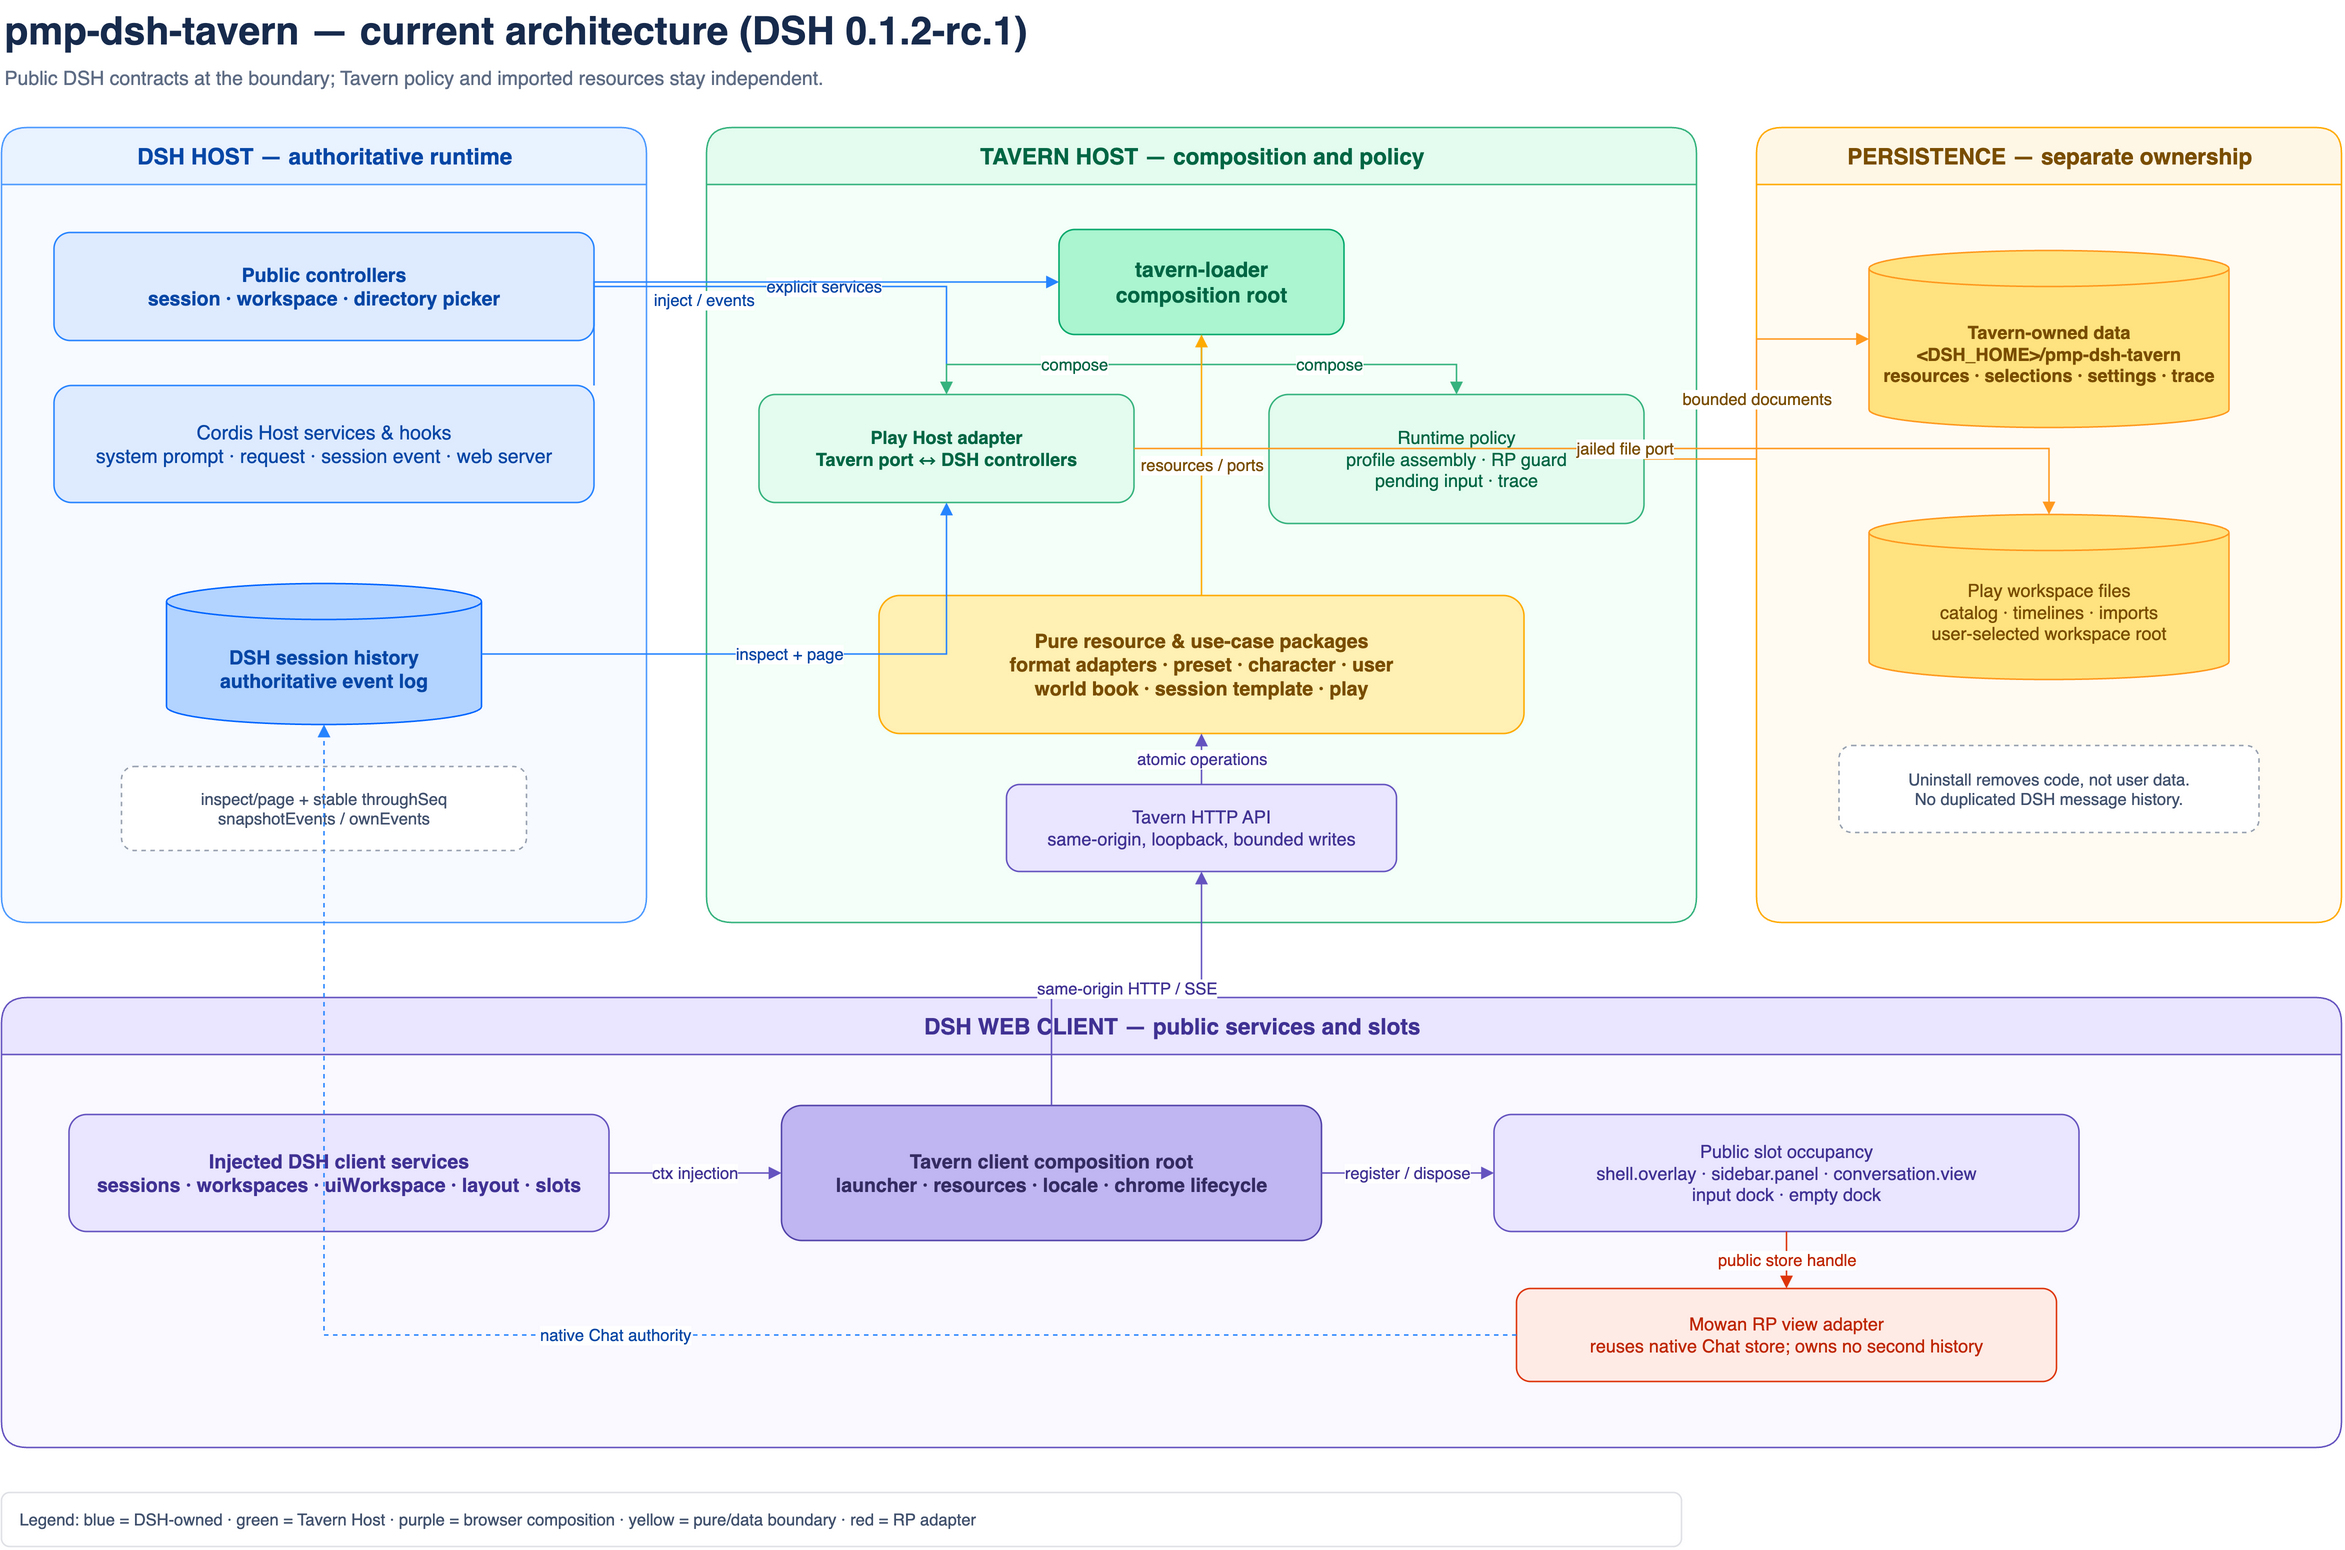
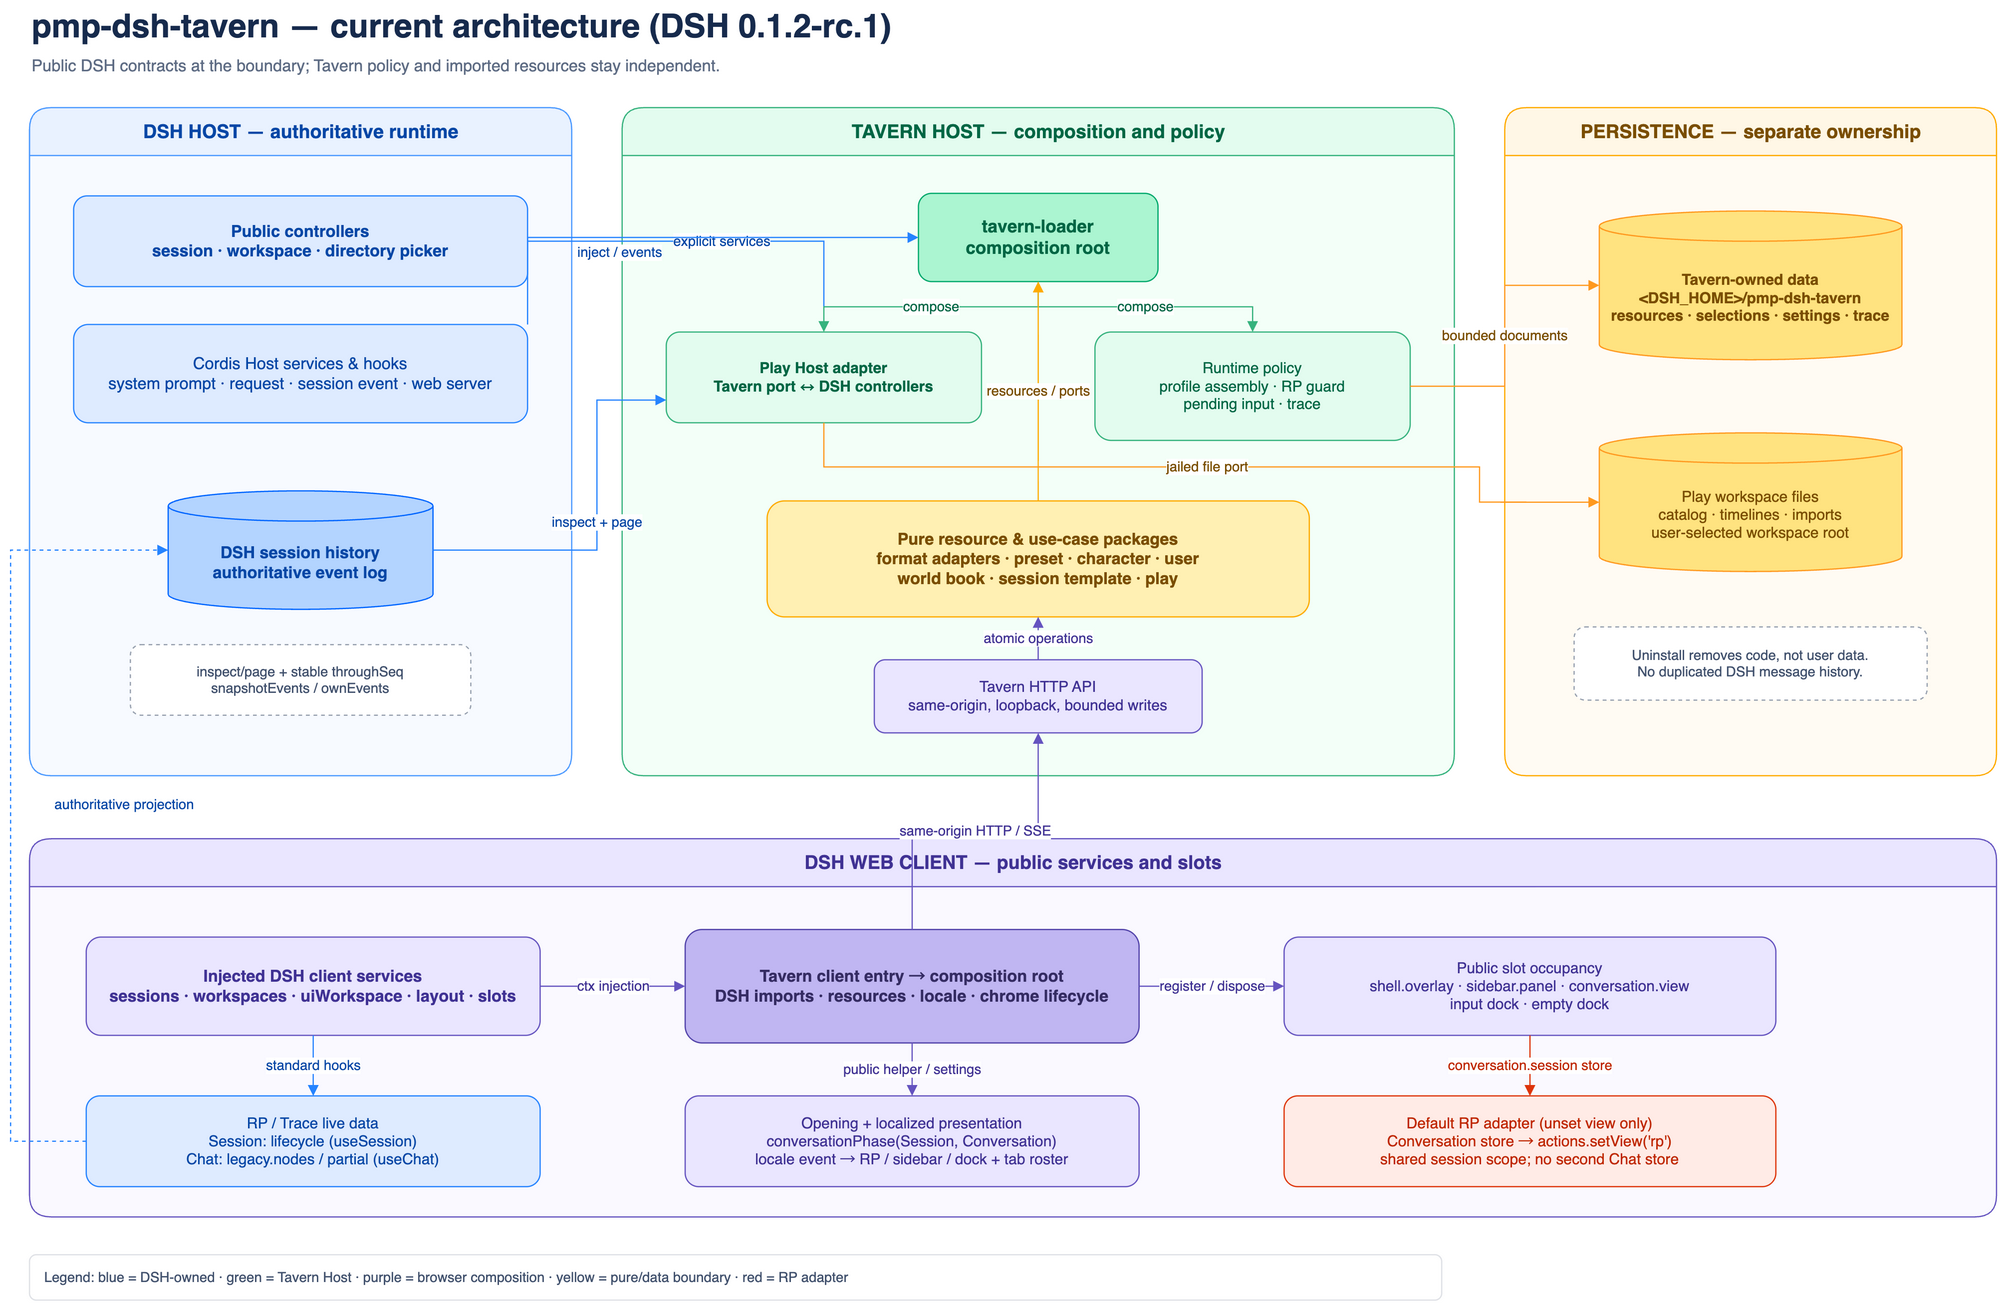
docs: synchronize split client ownership and architecture diagram

diff --git a/docs/ARCHITECTURE_en.md b/docs/ARCHITECTURE_en.md
@@ -2,7 +2,7 @@
 
 [中文](ARCHITECTURE.md)
 
-Status: 2026-09-05. The full DSH compatibility baseline is `0.1.2-rc.1`; install identity is `pmp-dsh-tavern`. HTTP mounts at `/pmp-dsh-tavern/api`; resources use `/v1`; the play-surface contract uses `/v2`. This page is current architecture decisions and release-review gates, not a product README.
+Status: 2026-09-06. The full DSH compatibility baseline is `0.1.2-rc.1`; install identity is `pmp-dsh-tavern`. HTTP mounts at `/pmp-dsh-tavern/api`; resources use `/v1`; the play-surface contract uses `/v2`. This page is current architecture decisions and release-review gates, not a product README.
 
 ![Current architecture](assets/dsh-tavern-architecture.png)
 
@@ -107,9 +107,10 @@ The frontend long-term rule is “minimal change, maximum compatibility”: firs
 | Mowan sidebar | `sidebar.workspaces` slot; owner-injected `useSessions` / `useWorkspaces`; `ctx.sessions.open()` | Reproject as character/playthrough only. Do not rewrite, archive, or hide Host session data |
 | DSH outer New session | Owned by the DSH `0.1.2-rc.1` sidebar shell; no public slot/service for Tavern to take over its click | Tavern does not take it over with hashed classes, DOM capture, or source replacement. Mowan keeps the native button and documents it as not recommended. Ordinary-area `+` only guides back to native |
 | Ordinary-session hint | Independent full-row `conversation.input.dock` slot, inherited `--dsh-composer-card-max-width` | Shows only Tavern's RP-workspace classification. The hint is centered to Host composer width. It does not take over the native composer, copy fixed pixels, or read hashed classes |
-| Mowan conversation page | `conversation.view` slot; standard `useSession` nodes / partial / running | Cross-session playthrough aggregation is a Tavern projection. Do not forge DSH messages or read private runtime |
-| Mowan default view | Native `chat` store handle from `slots.entries("conversation.view")`, session-scoped `conversation.input.dock` and its `actions.setView()` | Before a new playthrough has a chosen view, reuse the same store from a dock entry with no visible content, then unregister immediately after switching to `rp`. Do not register a second `chat` on the view ring. Keep manually selectable native **Chat** |
-| Live send and streaming | DSH `useSession` live nodes and partial | `/v2/messages` only reconciles durable message range. It does not re-wrap DSH's browser live API |
+| Mowan conversation page | `conversation.view`; `useChat` with `legacy.nodes/partial`; `useSession` lifecycle fields | Cross-session aggregation is a Tavern projection. Do not forge DSH messages or read private runtime |
+| Mowan default view | Conversation store handle from `slots.entries("conversation.session")`, session-scoped `conversation.input.dock` and `actions.setView()` | Reuse the same store for an unset view, then unregister. Do not register a second `chat` or override explicit choices |
+| Live send and streaming | The public `legacy` message projection from DSH `useChat` | `/v2/messages` only reconciles durable ranges. Session no longer has `nodes/partial`; top-level Chat `nodes` is not an array |
+| Blank-playthrough opening | Public `conversationPhase(session, conversation)` and `useConversation` | Do not read removed Session `composerPhase` or duplicate the phase state machine |
 | Conversation scroll | Conversation `[data-conversation-scroll]` scrollport, sticky composer geometry, injected `chatScroll.save(null)` | Choose only when to call native “scroll to bottom”. Do not compute a fixed composer height or keep a second scroll container |
 | Clean new session / templates | DSH mode reuses `uiWorkspace.connectWorkspace()`; Mowan reuses the playthrough v2 session-controller composition; both navigate with `sessions.open()` | Tavern only copies selection atomically onto the target session. Mowan additionally treats the configured character as playthrough ownership and read-back-validates. It does not construct messages or fork history |
 | Playthrough session operations | Host `sessions.create/rename/fork/prompt/history`, `workspace.insertSessionBefore`; Host-side `Session.deriveMessages()` | v2 composes these atomic operations into playthrough transactions usable by third-party frontends, while DSH sessions remain authoritative history |
@@ -156,7 +157,9 @@ Plugin-owned resource changes continue to use a bounded Tavern refresh event. Se
 
 On every DSH version upgrade, first do a read-only diff audit: plugin-manifest inject, public package root exports, slot owner props, store fields, Host RPC, and README contracts. Then run native/play dual-mode and uninstall-fallback acceptance. If a public seam disappears, fail the matching enhancement closed and keep the native surface first, then discuss a protocol change. Do not temporarily switch to DOM queries, internal bundle symbols, or private runtime. Design notes for new frontend features must explicitly write “reused native mechanism / reason for custom work / official upgrade observation point”.
 
-DSH `0.1.2-rc.1` default view is still held by the DSH chat store. A `conversation.view` owner does not automatically inject another entry's store into a plugin view. The default RP adapter must therefore explicitly reuse the same store handle from the native `chat` entry in the public slot snapshot. It must not invent a second store. DSH reuses instances by store handle × session scope, so the adapter hangs on session-scoped `conversation.input.dock` that produces no view button, returns `null`, handles only the not-yet-chosen `view` state, and unregisters after running. Do not obtain actions from a same-named `conversation.view` entry. If the public handle is missing or the component cannot get the store, fail closed and clear the temporary occupancy. Upgrade regression: after the first message of a new playthrough, default into RP; native **Chat** remains manually selectable; from the first frame the top bar has only one `chat`; switching back to native or uninstalling does not change the original DSH component.
+DSH `0.1.2-rc.1` separates three owners: Session owns lifecycle, Chat owns live messages, and Conversation owns views and interaction phase. The default RP adapter obtains the Conversation store handle from the public `conversation.session` entry and shares its instance by store handle × session scope. It neither takes `actions.setView()` from native `chat` nor creates another store. The invisible `conversation.input.dock` adapter handles only an unset `view`, then unregisters; explicit native Chat or Trace selections stay intact. A missing public handle leaves the enhancement uninstalled. Browser-only `conversationPhase` is injected into the composition root by `entry.js`, keeping ordinary modules importable in Node unit tests. Upgrade regression must cover first-send default RP, blank opening, partial increments, Trace, a single native `chat`, and mode-exit disposal.
+
+Tavern locale is independent of DSH locale. RP, sidebar, and opening dock subscribe to the full UI settings, not only scale. A locale change also refreshes Tavern's own RP tab registration because DSH snapshots its label in the view roster; the Conversation store and completed default-view choice stay intact. Generated playthrough names follow locale; custom titles and character bodies are not translated. Locale events do not replace DSH Session/Chat subscriptions.
 
 ## Why this is not two DSH plugins
 

diff --git a/docs/CHANGELOG.md b/docs/CHANGELOG.md
@@ -1,5 +1,14 @@
 # Development changelog
 
+## 2026-09-06 — Computer-use acceptance repairs (2.1.0-rc.2)
+
+- Corrected DSH `0.1.2-rc.1` client state ownership: RP and Trace read the public Chat `legacy.nodes/partial` projection; Session supplies lifecycle only. This restores live RP output and prevents Trace from crashing on removed Session fields.
+- Derived the empty-playthrough opening phase with public `conversationPhase()` and shared the Conversation store from `conversation.session` for default-view selection. Greeting is visible before sending, new unselected conversations default to RP, and explicit native Chat choices stay intact.
+- Isolated browser-owned DSH imports in the client entry so ordinary UI modules remain importable by Node tests without installing the DSH browser runtime as a Tavern dependency.
+- Made locale-only changes rerender the RP sidebar, conversation, and opening dock; refreshed Tavern's own RP tab label without repeating default-view selection. Generated titles follow locale, while custom titles and resource bodies remain verbatim. Fixed the world-book reorder button's missing translation key.
+- Synchronized Chinese/English architecture and frontend contracts, the editable draw.io source, and its PNG preview. No Host storage, timeline schema, or message-authority change.
+- Verified the local candidate on isolated DSH `0.1.2-rc.1`: blank greeting, first-send default RP, partial output while generation is active, completed output, aligned Trace records, live Chinese/English switching, native selection retention, and world-book labels. Full check: 522 passing tests, 2 fixture-dependent skips; independent focused review: 25 passing tests and no required findings. Exact-ref GitHub installation and initial credential onboarding remain separate release gates; no release or remote push is implied.
+
 ## 2026-09-05 — Version 2.1.0-rc.2 release candidate
 
 - Migrated the Play Host bridge from the removed RPC proxy to explicit DSH `0.1.2-rc.1` session, workspace, and directory-picker controllers, including official UUID request ids and namespaced error mapping.

diff --git a/docs/FRONTEND_INTEGRATION_en.md b/docs/FRONTEND_INTEGRATION_en.md
@@ -73,6 +73,8 @@ Third-party plugins may use the same kinds of public seams, but must:
 
 ## 5. HTTP v2 data plane
 
+Embedded clients on DSH `0.1.2-rc.1` read lifecycle from `useSession`, `legacy.nodes/partial` from `useChat`, and interaction state from `useConversation`. Derive opening phase with the package-root `conversationPhase(session, conversation)` export. Default-view selection uses the Conversation store on `conversation.session`, not the native Chat store. Standalone HTTP clients do not use these browser hooks. Tavern UI settings events refresh presentation only; they cannot replace the Host live-message source.
+
 Root: `/pmp-dsh-tavern/api/v2`. It is for any RP frontend and provides:
 
 - chrome authority and SSE;

diff --git a/docs/FRONTEND_INTEGRATION_zh-CN.md b/docs/FRONTEND_INTEGRATION_zh-CN.md
@@ -73,6 +73,8 @@ export function apply(ctx) {
 
 ## 5. HTTP v2 数据面
 
+DSH `0.1.2-rc.1` 的嵌入式客户端需分别读取：`useSession` 的生命周期、`useChat` 的 `legacy.nodes/partial`、`useConversation` 的交互状态。开场阶段用包根导出的 `conversationPhase(session, conversation)`；默认 view 使用 `conversation.session` 的 Conversation store，不是原生 Chat store。普通 HTTP 前端不使用这些浏览器 hook。Tavern UI 设置事件只刷新产品呈现，不能代替 Host 实时消息源。
+
 根路径：`/pmp-dsh-tavern/api/v2`。它面向任意 RP 前端，提供：
 
 - chrome 权威状态与 SSE；
